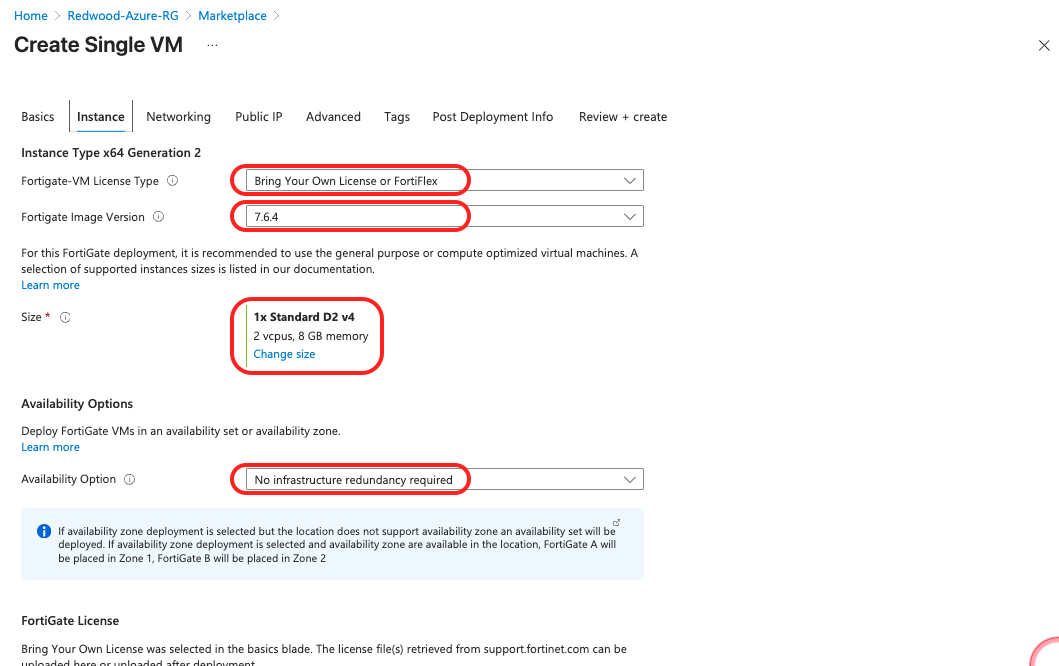
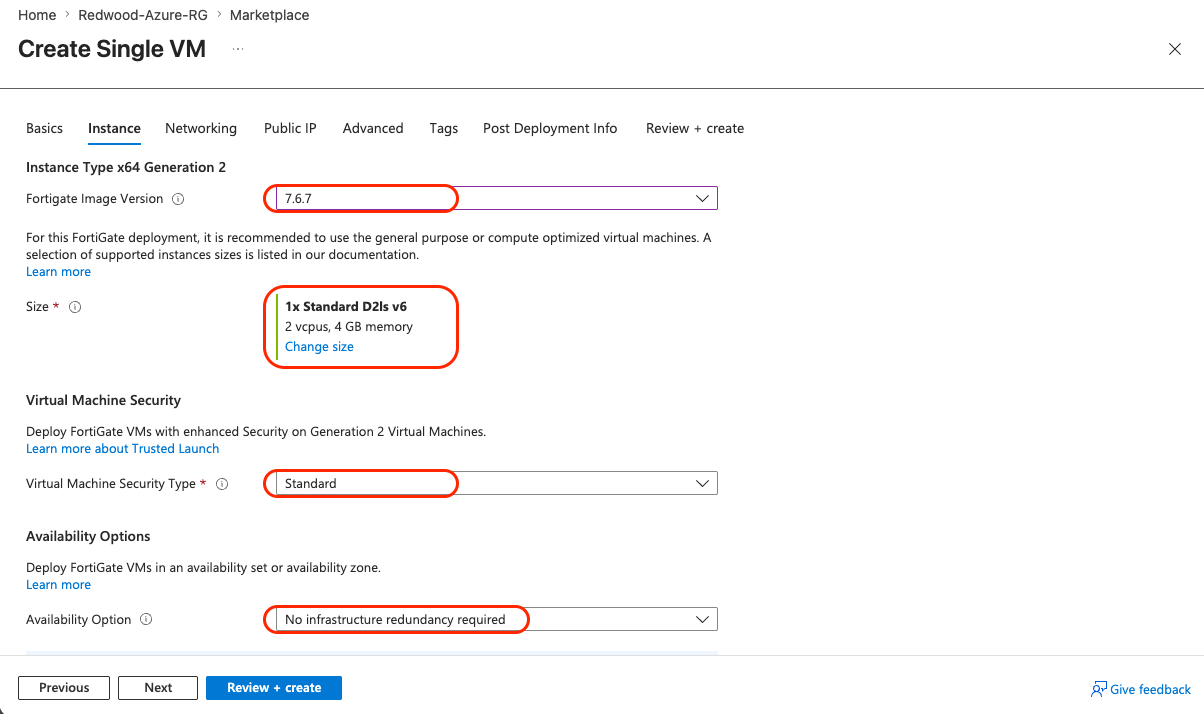
Lab 2 update

diff --git a/az-101-lab2/README.md b/az-101-lab2/README.md
@@ -58,7 +58,7 @@ Azure Marketplace is where you find and deploy third-party solutions, including 
    - **Important:** Multiple FortiGate listings exist
    - **Select BYOL Version:**
    - Click on **Fortinet FortiGate Next-Generation Firewall**
-     - > NOT the **Fortinet FortiGate Next-Generation Firewall (VM)** which includes a `Starts at $0.36/3 years` note
+     - > **NOT** the **Fortinet FortiGate Next-Generation Firewall (VM)** which includes a `Starts at $0.36/3 years` note
    - Review the overview tile (optional)
    - Click **Create** button
    - Select **Single VM**
@@ -117,14 +117,17 @@ The Basics tab configures foundational VM settings: location, sizing, and admin 
    - Click **Next**
 
 2. **Instance** configurations:
-   - **FortiGate Image SKU**: `Bring Your Own License or FortiFlex`
-   - **FortiGate Image Version**: `7.6.4`
-   - **Instance Type**: `Standard_D2_v4` (default for single VM)
+
+   - **FortiGate Image Version**: `7.6.7`
+   - **Instance Type**: `Standard_D2ls_v6` (Click on **Change size**)
+     > If the `Standard_D2ls_v6` is not available for you, or if you get an quota error, remember the video where you learned how to increase the quota for an specific vm family
+   - **Virtual Machine Security Type**: `Standard`
    - **Availability Option**: `No infrastructure redundancy required`
 
    ![step2.2-screenshot](images/step2.2-screenshot.png)
 
    Configuring **Licensing:**
+   - **FortiGate Image SKU**: `Bring Your Own License or FortiFlex`
    - Check **"My organization is using the FortiFlex subscription service"**
    - **FortiFlex Token**: `[Token provided by instructor]`
    - Name of the FortiGate VM: `Redwood-Azure-FGT`